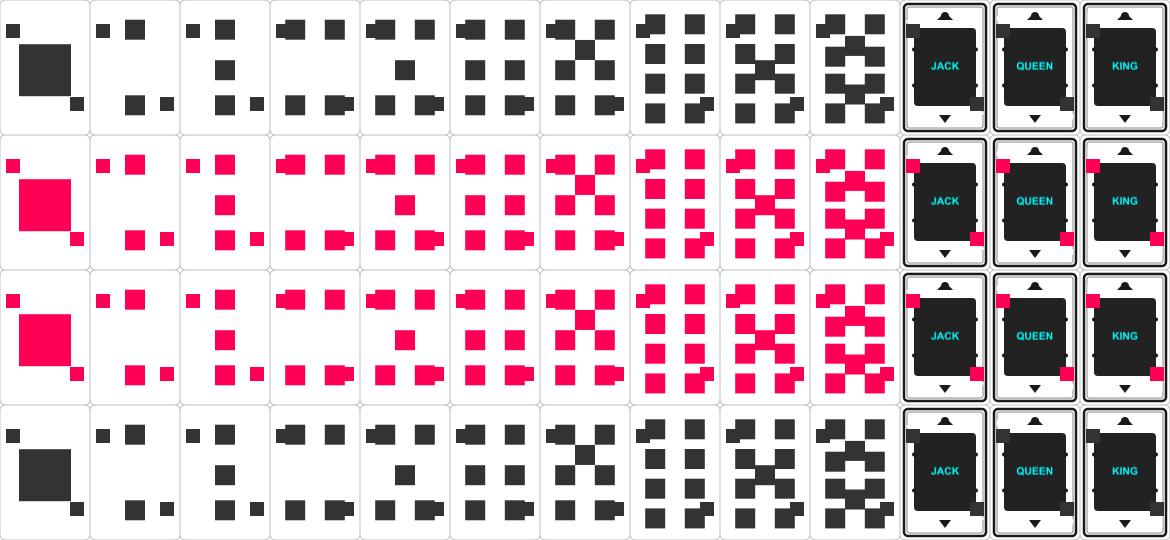
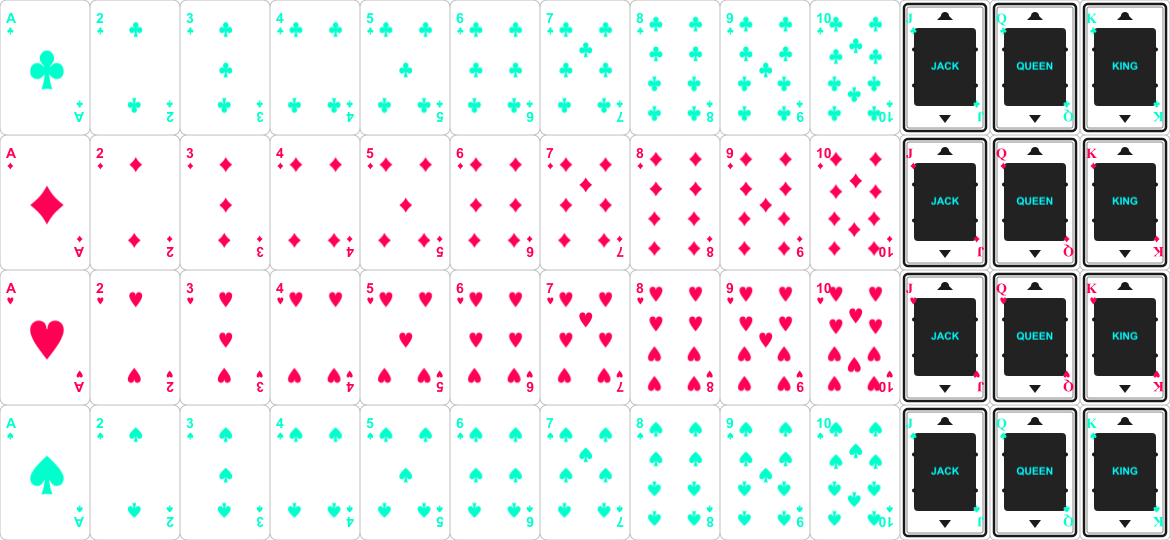
feat: update card generation to unify colors across cards

diff --git a/scripts/cards/number-card.js b/scripts/cards/number-card.js
@@ -3,11 +3,11 @@ const { getPipLayout } = require('./pip-layouts');
 
 const CARD_W = 90;
 const CARD_H = 135;
-const BORDER_R = 6;
+const BORDER_R = 8;
 const CORNER_MARGIN_X = 6;
 const CORNER_MARGIN_Y = 10;
 const SYMBOL_SIZE = 14; // destination size for corner suit symbol
-const PIP_SIZE = 20;     // destination size for center pips
+const PIP_SIZE = 30;     // destination size for center pips
 
 function roundRect(ctx, x, y, w, h, r) {
     r = Math.min(r, w / 2, h / 2);
@@ -54,27 +54,7 @@ function drawNumberCard(ctx, x, y, rankCode, rankDisplay, symbolImg, colors) {
     roundRect(c, 0, 0, CARD_W, CARD_H, BORDER_R);
     c.clip();
 
-    // Top-left corner: rank + small symbol
-    c.fillStyle = colors.cardText || '#000000';
-    c.font = `bold 14px "Times New Roman", serif`;
-    c.textAlign = 'left';
-    c.textBaseline = 'top';
-    c.fillText(rankDisplay, CORNER_MARGIN_X, CORNER_MARGIN_Y);
-    if (symbolImg) {
-        c.drawImage(symbolImg, CORNER_MARGIN_X, CORNER_MARGIN_Y + 14, SYMBOL_SIZE, SYMBOL_SIZE);
-    }
-
-    // Bottom-right corner: rotated rank + symbol
-    c.save();
-    c.translate(CARD_W - CORNER_MARGIN_X, CARD_H - CORNER_MARGIN_Y);
-    c.rotate(Math.PI);
-    c.fillText(rankDisplay, 0, 0);
-    if (symbolImg) {
-        c.drawImage(symbolImg, 0, 14, SYMBOL_SIZE, SYMBOL_SIZE);
-    }
-    c.restore();
-
-    // Center pips
+    // Center pips (draw first so corner text sits on top)
     const pips = getPipLayout(rankCode, CARD_W, CARD_H);
     for (const pip of pips) {
         const size = PIP_SIZE * pip.scale;
@@ -89,6 +69,26 @@ function drawNumberCard(ctx, x, y, rankCode, rankDisplay, symbolImg, colors) {
         }
         c.restore();
     }
+
+    // Top-left corner: rank + small symbol
+    c.fillStyle = colors.cardText || '#000000';
+    c.font = `bold 14px "Arial", serif`;
+    c.textAlign = 'left';
+    c.textBaseline = 'top';
+    c.fillText(rankDisplay, CORNER_MARGIN_X, CORNER_MARGIN_Y);
+    if (symbolImg) {
+        c.drawImage(symbolImg, CORNER_MARGIN_X * 0.5, CORNER_MARGIN_Y + 14, SYMBOL_SIZE, SYMBOL_SIZE);
+    }
+
+    // Bottom-right corner: rotated rank + symbol
+    c.save();
+    c.translate(CARD_W - CORNER_MARGIN_X, CARD_H - CORNER_MARGIN_Y);
+    c.rotate(Math.PI);
+    c.fillText(rankDisplay, 0, 0);
+    if (symbolImg) {
+        c.drawImage(symbolImg, -CORNER_MARGIN_X * 0.5, 14, SYMBOL_SIZE, SYMBOL_SIZE);
+    }
+    c.restore();
 
     c.restore();
 

diff --git a/scripts/cards/full-generator.js b/scripts/cards/full-generator.js
@@ -87,14 +87,18 @@ async function generateFullCards(theme, { force = false } = {}) {
     for (let si = 0; si < SUITS.length; si++) {
         const suit = SUITS[si];
         const symbolImg = symbols[suit];
+        const cardColors = {
+            cardBorder: colors.cardBorder,
+            cardText: suitColors[si],
+        };
         for (let ri = 0; ri < RANKS.length; ri++) {
             const rank = RANKS[ri];
             const x = ri * 90;
             const y = si * 135;
             if (FACE_RANKS.includes(rank)) {
-                await drawFaceCard(ctx, x, y, rank, portraits[rank], symbolImg, colors, hasCustomFrame ? customFrame : null);
+                await drawFaceCard(ctx, x, y, rank, portraits[rank], symbolImg, cardColors, hasCustomFrame ? customFrame : null);
             } else {
-                drawNumberCard(ctx, x, y, rank, rankDisplay(rank), symbolImg, colors);
+                drawNumberCard(ctx, x, y, rank, rankDisplay(rank), symbolImg, cardColors);
             }
         }
     }

diff --git a/scripts/cards/styled-recolor.js b/scripts/cards/styled-recolor.js
@@ -125,6 +125,16 @@ async function generateFallbackSymbol(rowSvg, suitColor) {
         0, 0, SYMBOL_CROP.w, SYMBOL_CROP.h
     );
 
+    // Remove the white card background so the symbol is transparent
+    const imageData = sCtx.getImageData(0, 0, SYMBOL_CROP.w, SYMBOL_CROP.h);
+    const data = imageData.data;
+    for (let i = 0; i < data.length; i += 4) {
+        if (data[i] > 250 && data[i + 1] > 250 && data[i + 2] > 250) {
+            data[i + 3] = 0;
+        }
+    }
+    sCtx.putImageData(imageData, 0, 0);
+
     return await loadImage(symCanvas.toBuffer('image/png'));
 }
 

diff --git a/themes/configs/index.js b/themes/configs/index.js
@@ -93,7 +93,7 @@ const neonColors = {
     textPrimary: '#c0c0c0',
     cardAccent:    '#ff0055',
     cardSecondary: '#00ffcc',
-    cardText:      '#ffffff',
+    cardText:      '#1a0a2e',
     cardBorder:    '#c0c0c0',
 };
 
